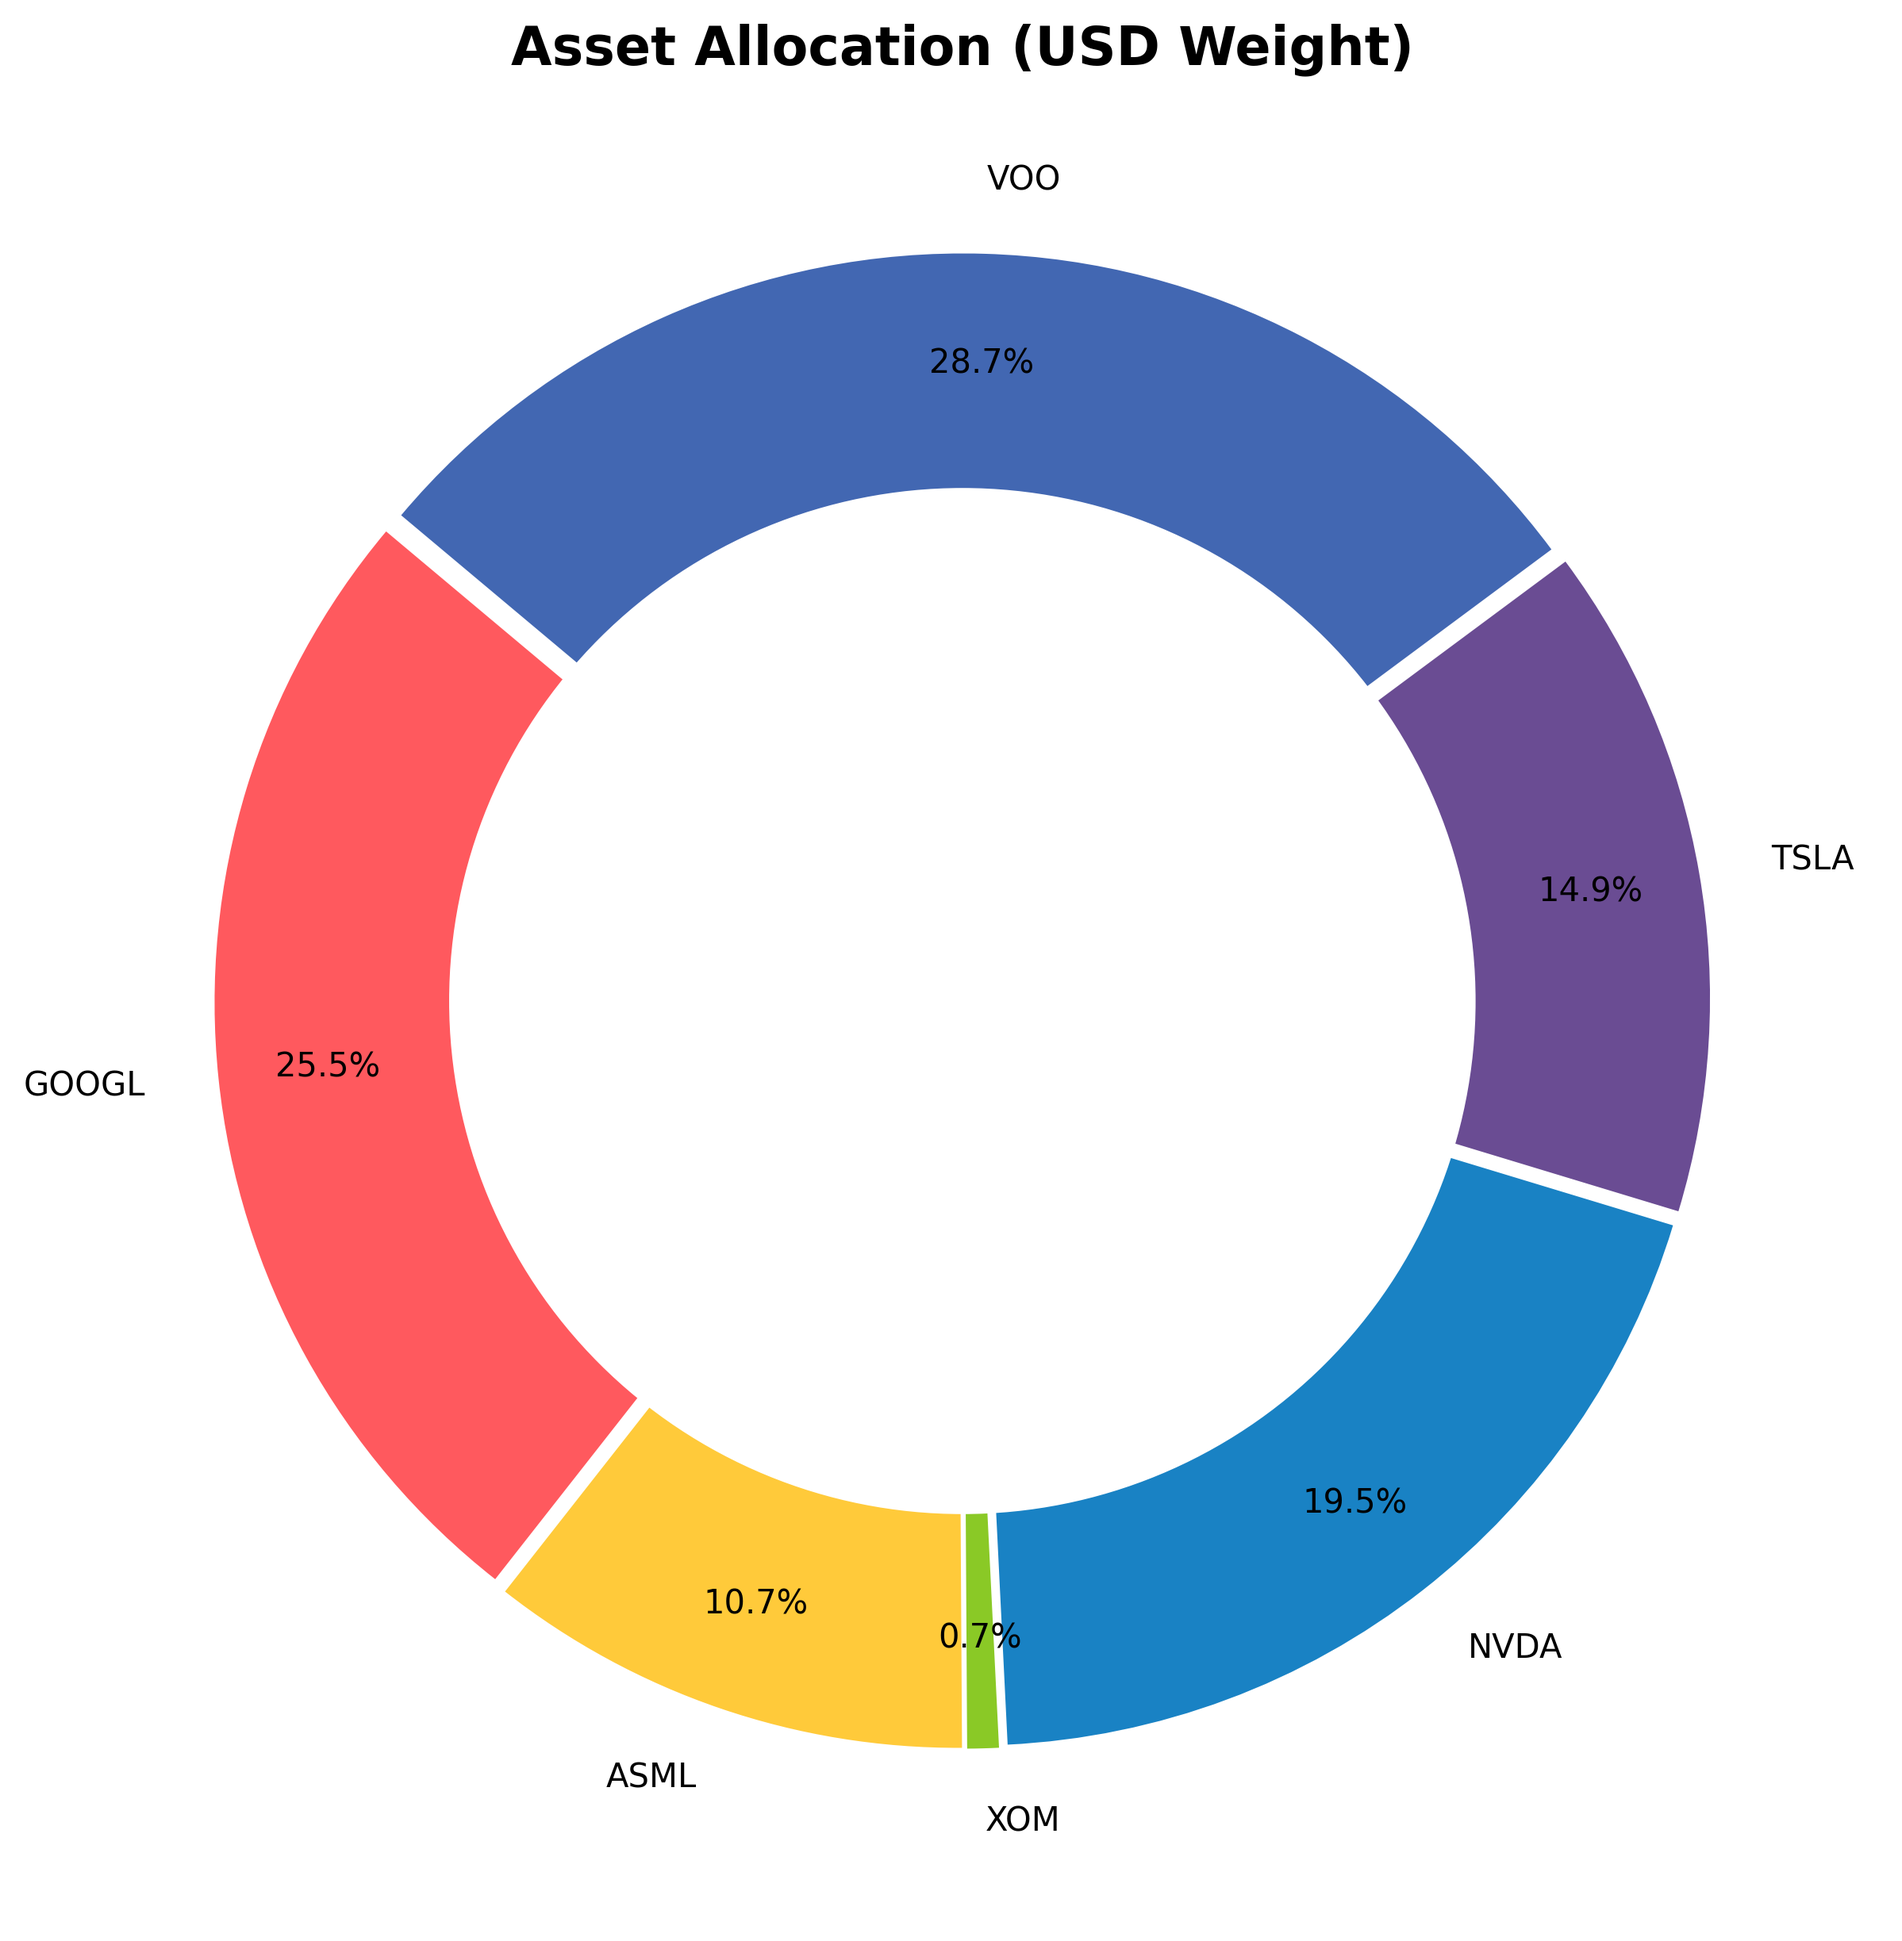
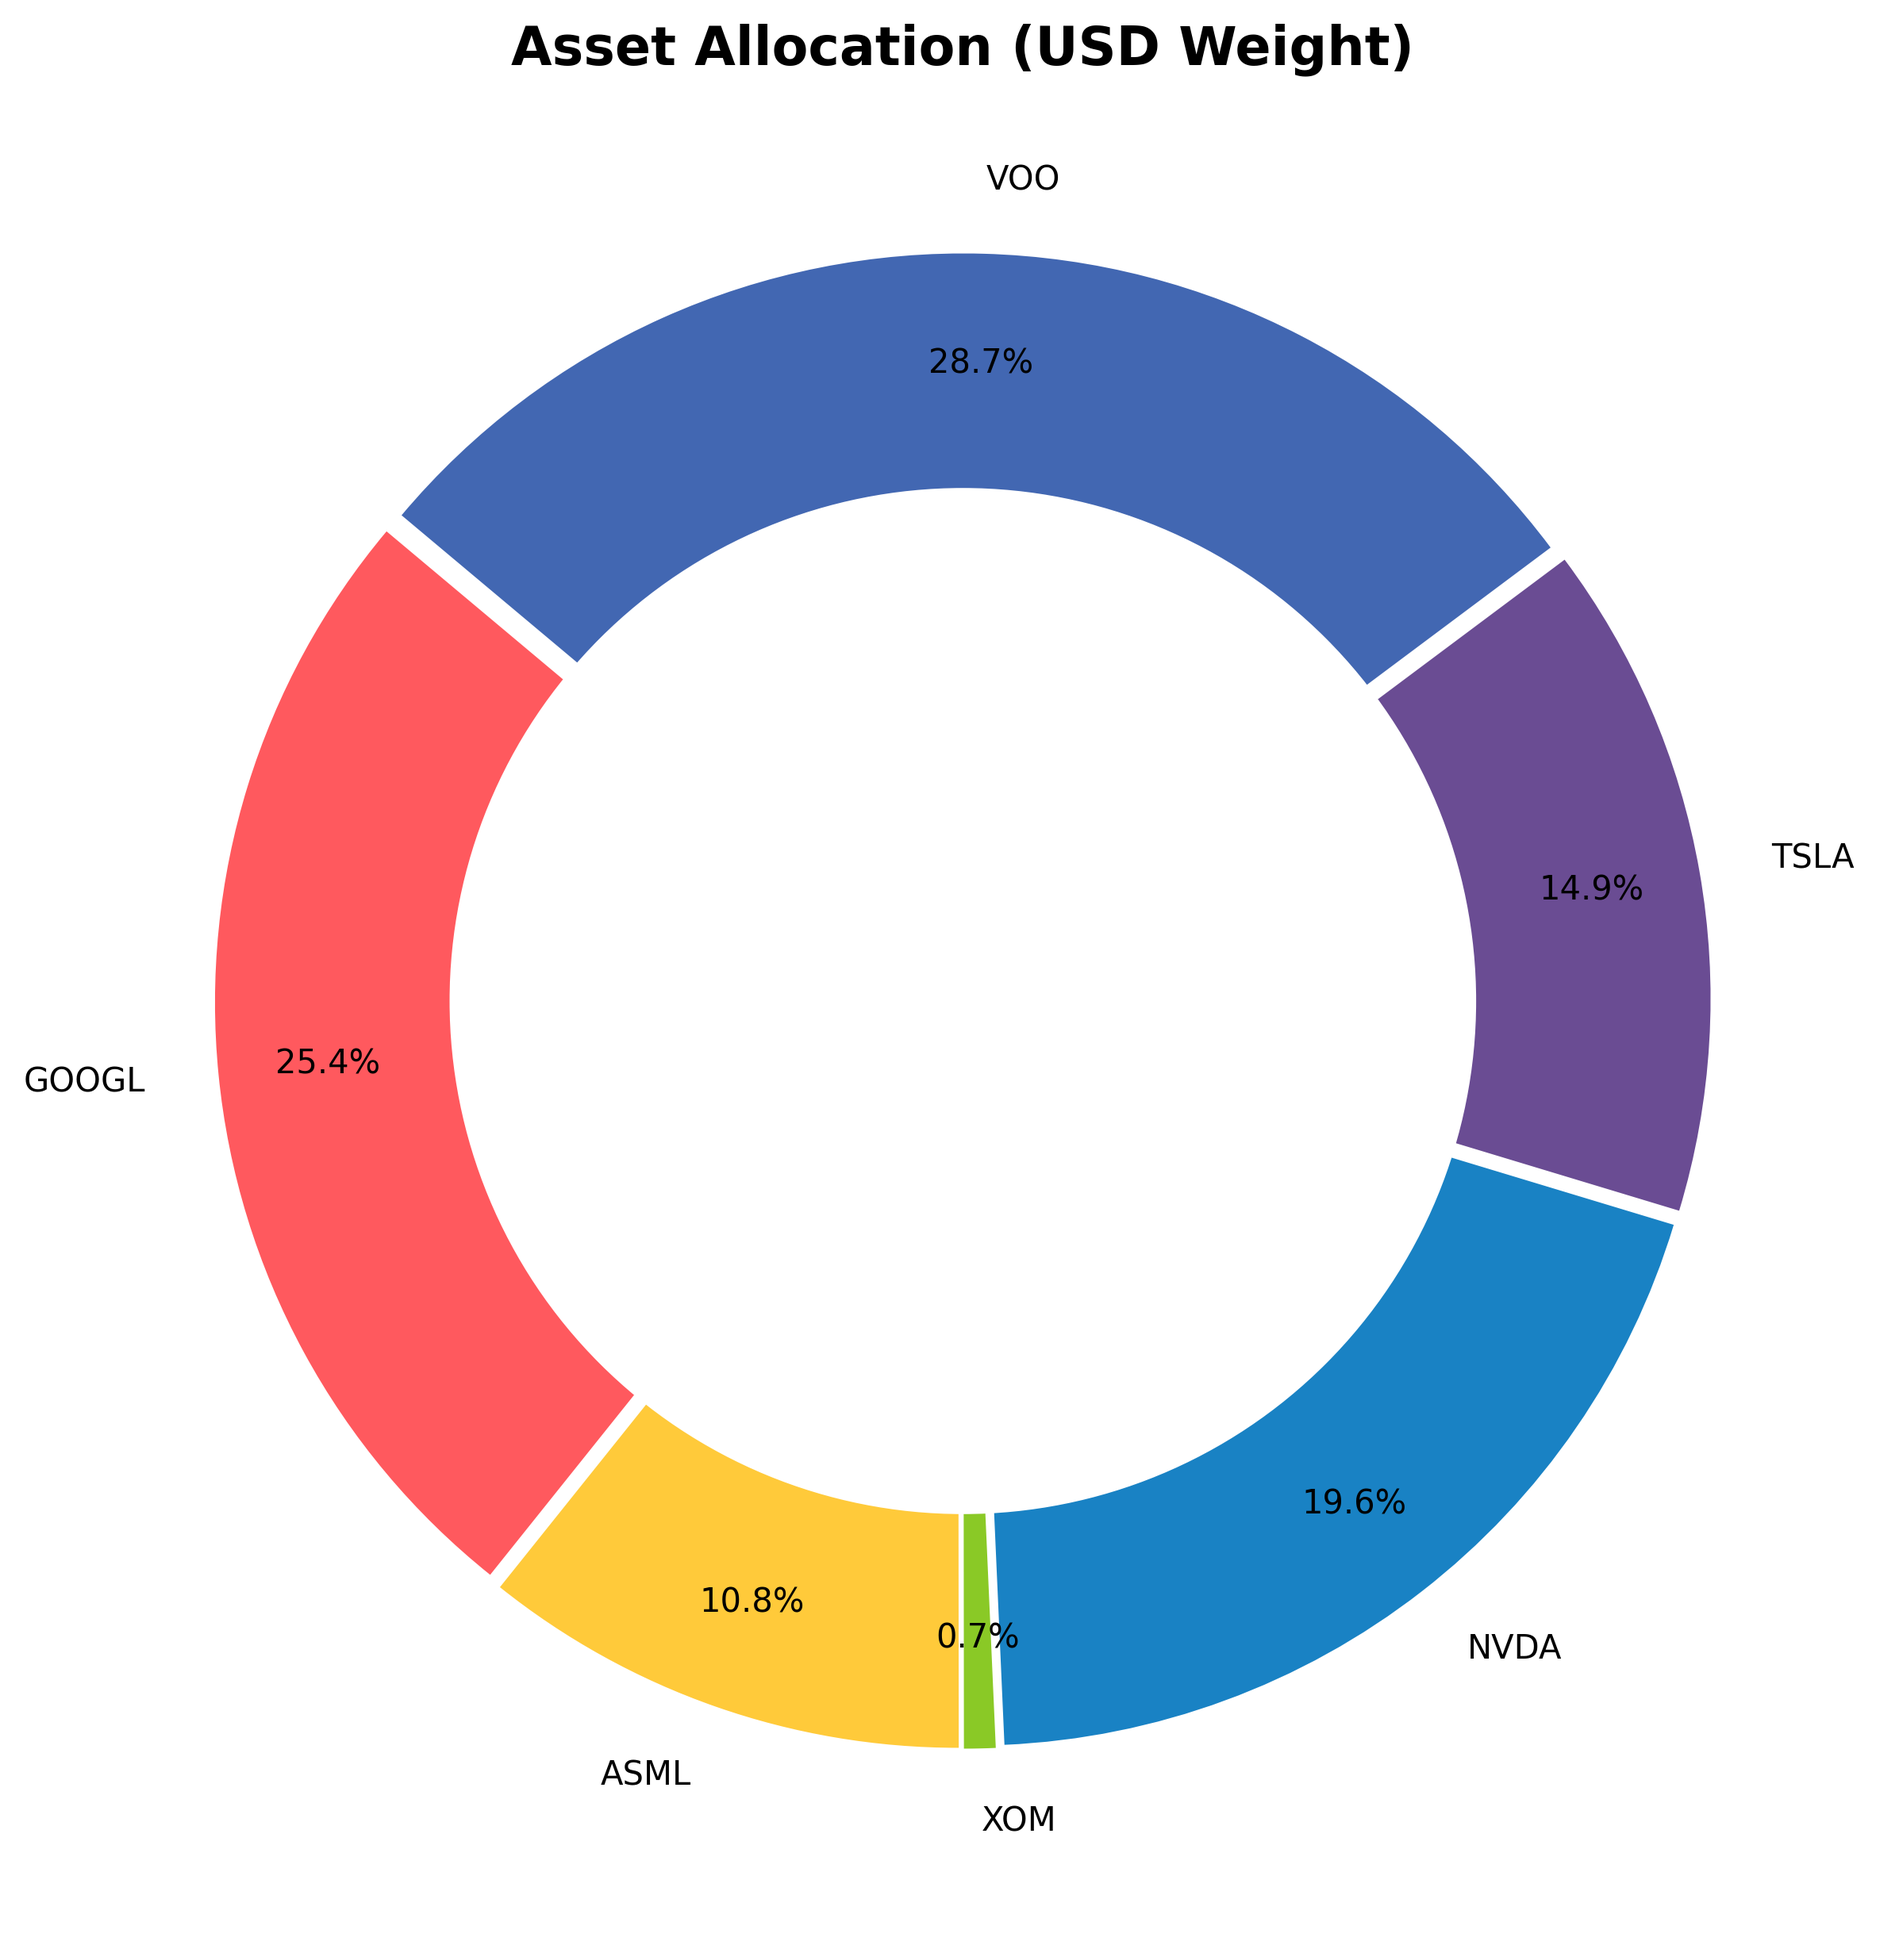
System Run: Analytics & Archive Update [skip ci]

diff --git a/README.md b/README.md
@@ -1,23 +1,23 @@
 # 📊 Portfolio Dashboard | מעקב תיק השקעות
-**Last Update:** 27/03/2026 17:57 | **USD/ILS:** ₪3.151
+**Last Update:** 27/03/2026 18:59 | **USD/ILS:** ₪3.137
 
 ## 💰 Portfolio Summary | סיכום התיק
 | Metric | Value | נתון |
 | :--- | :--- | :--- |
-| **Current Value** | `₪154,910` | **שווי נוכחי** |
-| **Total Invested** | `₪132,357` | **סך השקעה** |
-| **Total Profit/Loss** | `+17.04%` (₪22,554) | **רווח/הפסד כולל** |
-| **Daily Change** | `-4.21%` | **שינוי יומי** |
+| **Current Value** | `₪154,558` | **שווי נוכחי** |
+| **Total Invested** | `₪131,765` | **סך השקעה** |
+| **Total Profit/Loss** | `+17.30%` (₪22,793) | **רווח/הפסד כולל** |
+| **Daily Change** | `-4.00%` | **שינוי יומי** |
 
 ## 📜 Holdings | פירוט החזקות
 | Ticker | Shares | Avg. Cost | Current Price | P&L % | P&L ILS |
 | :--- | :--- | :--- | :--- | :--- | :--- |
-| GOOGL | 45 | $181.15 | $278.80 | 🟢 +53.91% | ₪13,848 |
-| ASML | 4 | $934.51 | $1,312.91 | 🟢 +40.49% | ₪4,770 |
-| XOM | 2 | $126.08 | $170.09 | 🟢 +34.91% | ₪277 |
-| NVDA | 57 | $148.62 | $168.38 | 🟢 +13.30% | ₪3,549 |
-| TSLA | 20 | $436.45 | $365.07 | 🔴 -16.35% | ₪-4,499 |
-| VOO | 24 | $527.38 | $588.30 | 🟢 +11.55% | ₪4,608 |
+| GOOGL | 45 | $181.15 | $277.76 | 🟢 +53.33% | ₪13,639 |
+| ASML | 4 | $934.51 | $1,324.63 | 🟢 +41.75% | ₪4,896 |
+| XOM | 2 | $126.08 | $170.45 | 🟢 +35.19% | ₪278 |
+| NVDA | 57 | $148.62 | $169.55 | 🟢 +14.08% | ₪3,743 |
+| TSLA | 20 | $436.45 | $366.81 | 🔴 -15.96% | ₪-4,370 |
+| VOO | 24 | $527.38 | $588.56 | 🟢 +11.60% | ₪4,607 |
 
 ## 📈 Charts | גרפים
 ![Performance](./data_hub/portfolio_performance.png)
